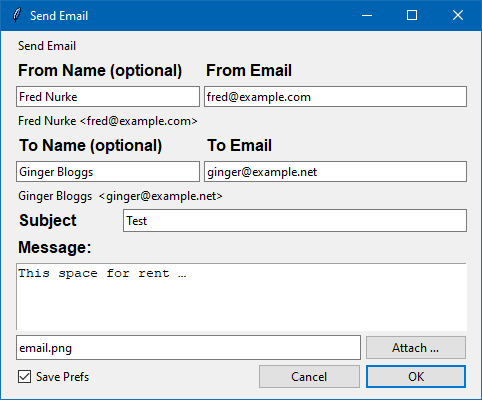
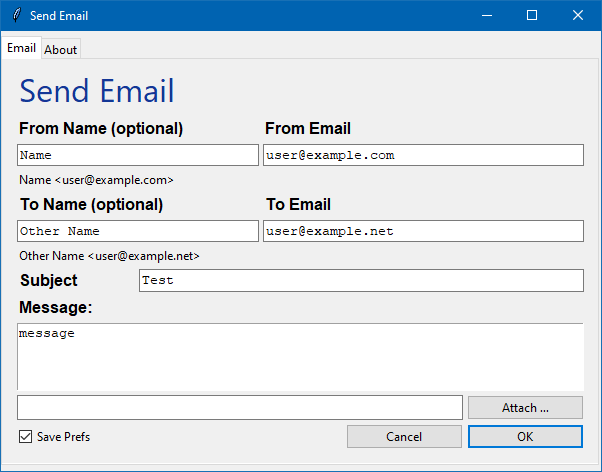
Version 0.1.2: Drag & Drop Attachment; About Panel

Changed region(s): [[0.0, 0.0, 1.0, 1.0]]

diff --git a/micromailer-form.py b/micromailer-form.py
@@ -1,35 +1,39 @@
 import tkinter.filedialog
+import tkinter.messagebox
 
 from library import *
+
 import tkform
 import micromailer
+from tkinterdnd2 import DND_FILES
 
 defaults = readIni(resource_path('micromailer.ini'))['micromailer']
-prefs = Prefs(['.micro-mailer', 'prefs.json'])
+prefs = Prefs(['.micro-mailer', 'prefs.json'], clear=True)
 
 #	Form
-form = tkform.TKForm('Send Email')
-form.geometry('480x368')
+form = tkform.TKForm('Send Email', pages=['Email', 'About'], )
+form.geometry('600x440')
 
-# #	fonts
-# labelFont = tkinter.font.nametofont("TkTextFont")
+#	styles
+labelFont = tkinter.font.nametofont("TkTextFont")
 # #labelFont.config(weight='bold', size=12)
-# headingFont = labelFont.copy()
-# headingFont.config(size=24)
+headingFont = labelFont.copy()
+headingFont.config(size=24)
 # comboboxFont = labelFont.copy()
 # comboboxFont.config(weight='normal', size=12)
-# entryFont = tkinter.font.nametofont("TkFixedFont")
+entryFont = tkinter.font.nametofont("TkFixedFont")
 # #entryFont.config(size=12)
-# linkFont = entryFont.copy()
-# linkFont.config(weight='normal', underline=False)
-# linkHoverFont = entryFont.copy()
-# linkHoverFont.config(weight='bold', underline=True)
+linkFont = entryFont.copy()
+linkFont.config(weight='normal', underline=False)
+linkHoverFont = entryFont.copy()
+linkHoverFont.config(weight='bold', underline=True)
 #
 # #	ttk Styles
 # #tkinter.ttk.Style().configure('TLabel',foreground="#666666", font=labelFont)
-# tkinter.ttk.Style().configure('heading.TLabel', foreground='#133796', font=headingFont)
-# tkinter.ttk.Style().configure('link.TLabel',foreground='#133796',font=linkFont)
-# tkinter.ttk.Style().configure('link.hover.TLabel',foreground='#133796',font=linkHoverFont)
+# tkinter.ttk.Style().configure('TEntry', foreground="#666666", font='TkFixedFont')
+tkinter.ttk.Style().configure('heading.TLabel', foreground='#133796', font=headingFont)
+tkinter.ttk.Style().configure('link.TLabel', foreground='#133796', font=linkFont)
+tkinter.ttk.Style().configure('link.hover.TLabel', foreground='#133796', font=linkHoverFont)
 # tkinter.ttk.Style().configure('TListbox',weight='normal', font=comboboxFont)
 # form.option_add('*TCombobox*Listbox.font', comboboxFont)   # apply font to combobox list
 #
@@ -146,6 +150,30 @@ attachmentTextbox = tkform.Textbox(form, textvariable=attachment)
 attachmentButton = tkform.Button(form, text='Attach …', command=getAttachment)
 form.add(attachmentTextbox, row=11, column=1, columnspan=7, sticky='we')
 form.add(attachmentButton, row=11, column=8)
+
+
+
+form.add(tkform.Label(form, "About MicroMailer"), page=1, column=0, row=0, columnspan=4, sticky='W')
+form.add(tkform.Label(form, "© Mark Simon"), page=1, column=0, row=1, columnspan=4, sticky='W')
+form.add(tkform.Label(form.pages[1], "OpeDetailsn:"), page=1, column=0, row=2, sticky='W')
+
+linkLabel = tkform.Label(form.pages[1], "https://github.com/manngo/micromailer/", style='link.TLabel')
+form.add(linkLabel, page=1, column=2, row=2, columnspan=3, sticky='W')
+linkLabel.linkify()
+
+form.add(tkform.Label(form.pages[1], "Share & Enjoy"), page=1, column=0, row=3, columnspan=4, sticky='W')
+
+
+#attachmentTextbox.configure(
+#	ondrop=lambda e: attachment.set(e.data)
+#)
+
+def setAttachment(e):
+#	say(e.data)
+	attachment.set(e.data.strip('{}'))
+
+attachmentTextbox.drop_target_register(DND_FILES)
+attachmentTextbox.dnd_bind('<<Drop>>', setAttachment)
 
 savePrefsCheckbox = tkform.Checkbox(form, 'Save Prefs', textvariable=savePrefs)
 form.add(savePrefsCheckbox, row=12, column=1)

diff --git a/tkform.py b/tkform.py
@@ -2,21 +2,43 @@
 TKForm
 '''
 
+from library import dbug, say
+import webbrowser
+
 import tkinter
 from tkinter import ttk
 from tkinter.font import Font
 
-from library import dbug
+from tkinterdnd2 import TkinterDnD
 
-class TKForm(tkinter.Tk):
+#class TKForm(tkinter.Tk):
+class TKForm(TkinterDnD.Tk):
 	'''Main Class'''
-	def __init__(self, title='GTK Window'):
+	def __init__(self, title='GTK Window', pages=[]):
 		super().__init__()
 		self.title(title)
-		# self.geometry('800x600')
-		self.mainframe = ttk.Frame(self, padding='13 3 12 12')
-		self.grid_columnconfigure(0, weight=1)
-		self.mainframe.grid(column=0, row=0, sticky='NWES')
+		#	self.geometry('800x720')
+
+		if pages:
+			dbug()
+			self.notebook = ttk.Notebook(self)
+			self.notebook.pack(expand=True)
+
+			self.mainframe = ttk.Frame(self.notebook, padding='13 3 12 12')
+
+			self.notebook.add(self.mainframe, text=pages[0])
+			self.pages = [self.notebook]
+
+			if len(pages)>1:
+				for i in pages[1:]:
+					dbug()
+					frame = ttk.Frame(self.notebook, padding='13 3 12 12')
+					self.pages.append(frame)
+					self.notebook.add(frame, text=i)
+
+		else:
+			self.mainframe = ttk.Frame(self, padding='13 3 12 12')
+			self.mainframe.pack(padx=8, pady=8, fill='both', expand=True)
 
 	def clear(self):
 		for i in self.window.winfo_children():
@@ -39,12 +61,15 @@ class TKForm(tkinter.Tk):
 				for name, data in data.items():				#	Add labels & commands
 					m.add_command(label=name, command=data)
 
-	def add(self, widget, row, column, columnspan=1, rowspan=1, sticky='W', pad=(2,2)):
+	def add(self, widget, row, column, columnspan=1, rowspan=1, sticky='W', pad=(2,2), page=None):
 #		dbug(f'row: {row}, column: {column}')
 		self.mainframe.grid_columnconfigure(row, weight=1)
 
 		sticky = 'nsew'
-		widget.grid(in_=self.mainframe, row=row, column=column, columnspan=columnspan, rowspan=rowspan, sticky=sticky, padx=pad[0], pady=pad[1])
+		if not page:
+			widget.grid(in_=self.mainframe, row=row, column=column, columnspan=columnspan, rowspan=rowspan, sticky=sticky, padx=pad[0], pady=pad[1])
+		else:
+			widget.grid(in_=self.pages[page], row=row, column=column, columnspan=columnspan, rowspan=rowspan, sticky=sticky, padx=pad[0], pady=pad[1])
 
 	def show(self):
 		self.mainloop()
@@ -53,6 +78,12 @@ class Label(ttk.Label):
 	def __init__(self, parent, text, textvariable=None, **kwargs):
 		self.parent = parent
 		super().__init__(parent, text=text, textvariable=textvariable, **kwargs)
+
+	def linkify(self):
+		self.bind('<Button-1>', lambda event: webbrowser.open(event.widget['text']))
+		self.bind("<Enter>", lambda event: event.widget.configure(style='link.hover.TLabel'))
+		self.bind("<Leave>", lambda event: event.widget.configure(style='link.TLabel'))
+
 
 class BoldLabel(Label):
 	def __init__(self, parent, text, textvariable=None, **kwargs):
@@ -63,6 +94,8 @@ class Textbox(ttk.Entry):
 	def __init__(self, parent, textvariable=None, text=None, **kwargs):
 		self.parent = parent
 		super().__init__(parent, textvariable=textvariable)
+		self.configure(font=('TkFixedFont',))
+
 		if text:
 			self.insert(0, text)
 

diff --git a/hook-tkinterdnd2.py b/hook-tkinterdnd2.py
@@ -1,0 +1,29 @@
+"""pyinstaller hook file.
+
+You need to use this hook-file if you are packaging a project using tkinterdnd2.
+Just put hook-tkinterdnd2.py in the same directory where you call pyinstaller and type:
+
+    pyinstaller myproject/myproject.py --additional-hooks-dir=.
+"""
+from library import(say)
+import os
+import platform
+from PyInstaller.utils.hooks import collect_data_files, collect_dynamic_libs
+
+s = platform.system()
+p = {
+    'Windows': ({'win-arm64', 'win-x86', 'win-x64' },{'tkdnd_unix.tcl', 'tkdnd_macosx.tcl'}),
+    'Linux': ({'linux-x64', 'linux-arm64'}, {'tkdnd_windows.tcl', 'tkdnd_macosx.tcl'}),
+    'Darwin': ({'osx-x64', 'osx-arm64'}, {'tkdnd_windows.tcl', 'tkdnd_unix.tcl'}),
+}
+if s in p:
+    datas = set([
+        x for x in (
+            *collect_data_files('tkinterdnd2'),
+            *collect_dynamic_libs('tkinterdnd2'),
+        )
+        if os.path.split(x[1])[1] in p[s][0] and os.path.split(x[0])[1] not in p[s][1]
+    ])
+else:
+    raise RuntimeError(f'TkinterDnD2 is not supported on platform "{s}".')
+print(32)

diff --git a/library.py b/library.py
@@ -22,6 +22,11 @@ def dbug(*args, pretty=False, silent=None, **kwargs):
 	else:
 		pp(*args)
 
+import tkinter.messagebox
+def say(message='Hello', title='Say'):
+	fback = sys._getframe().f_back
+	tkinter.messagebox.showinfo(title=title, message=f'{os.path.basename(fback.f_code.co_filename)}:{fback.f_lineno}: {message}')
+
 def resourcePath(path):
 	try:
 		base = sys._MEIPASS
@@ -34,8 +39,13 @@ def resource_path(relative_path):
 
 import os, json
 class Prefs:
-	def __init__(self, paths=[]):
+	def __init__(self, paths=[], clear=False):
 		self.path = os.path.join(os.path.expanduser('~'), *paths)
+		if clear:
+			try:
+				os.remove(self.path)
+			except:
+				pass
 
 	def load(self):
 		data = {}

diff --git a/winversion.py b/winversion.py
@@ -1,0 +1,12 @@
+import pyinstaller_versionfile
+
+pyinstaller_versionfile.create_versionfile(
+    output_file="versionfile.txt",
+    version="0.0.1.2",
+    company_name="Manngo Net",
+    file_description="Micro Mailer",
+    internal_name="Micro Mailer",
+    legal_copyright="",
+    original_filename="MicroMailerWin.exe",
+    product_name="Micro Mailer"
+)

diff --git a/README.md b/README.md
@@ -23,6 +23,8 @@ Form items in __bold__ are required:
 | Attachment       | You can optionally include an attachment.                                              |
 | Save Prefs       | See below                                                                              |
 
+You can add an attachment using the <kbd><kbd>Attach…</kbd></kbd> button.  
+You can also drag and drop an attachment over the text box.
 
 ##	Prefilled Data
 
@@ -37,7 +39,7 @@ You can pre-fill your MicroMailer form using an `ini` file, such as:
 	from-name = Fred Nurke
 	from-email = fred@example.com
 	to-name = Ginger Bloggs
-	to-email = 'ginger@example.net
+	to-email = ginger@example.net
 	subject = Test
 	message = This space for rent …
 	attachment = email.png
